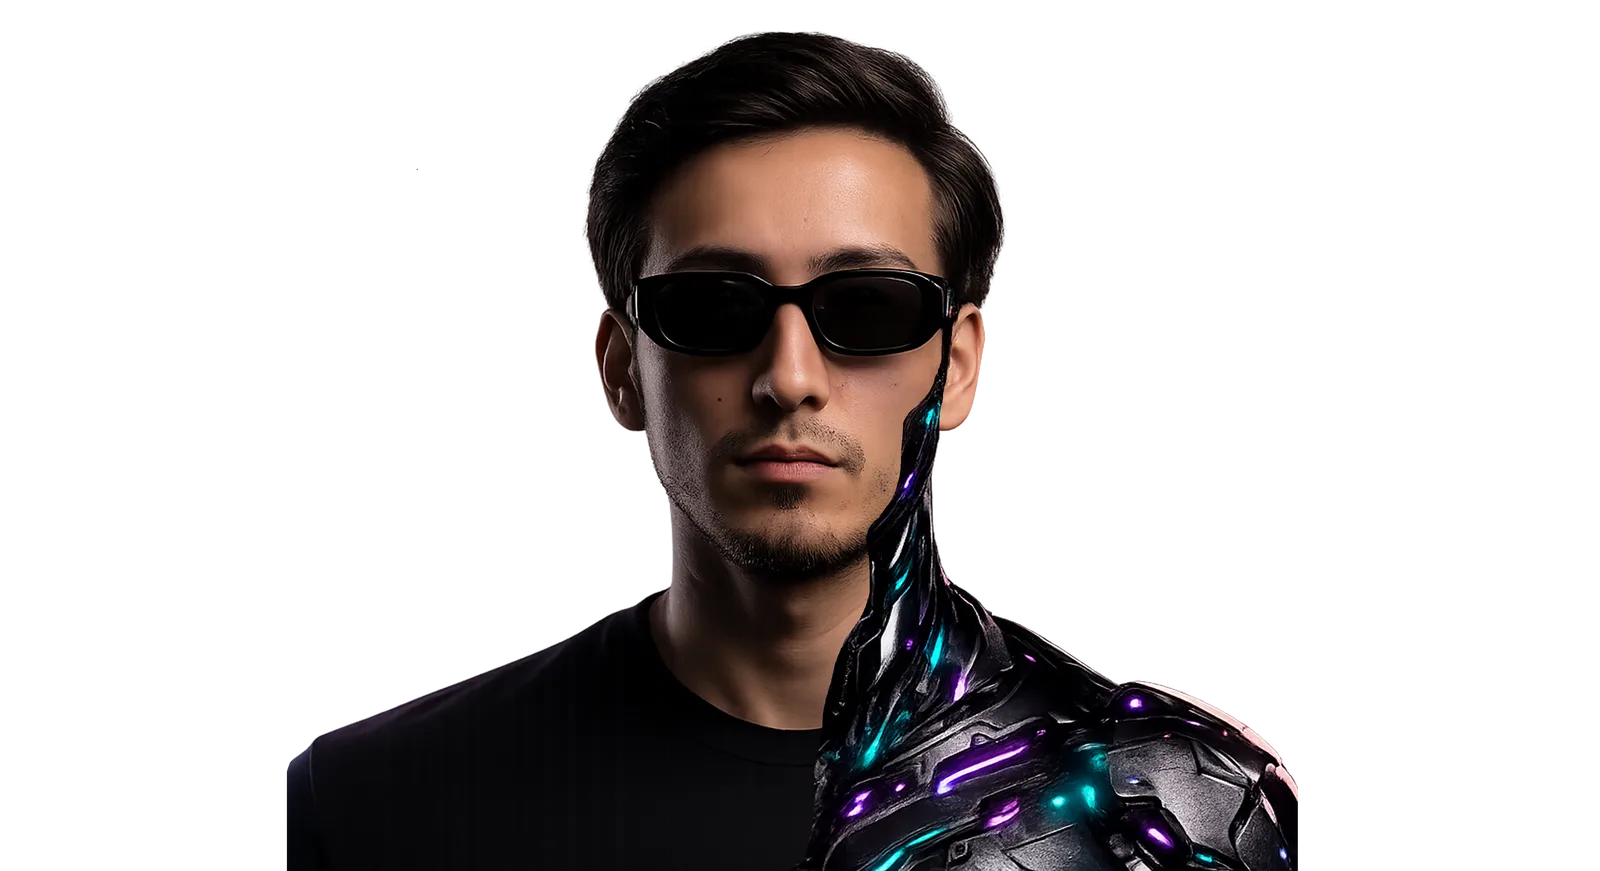
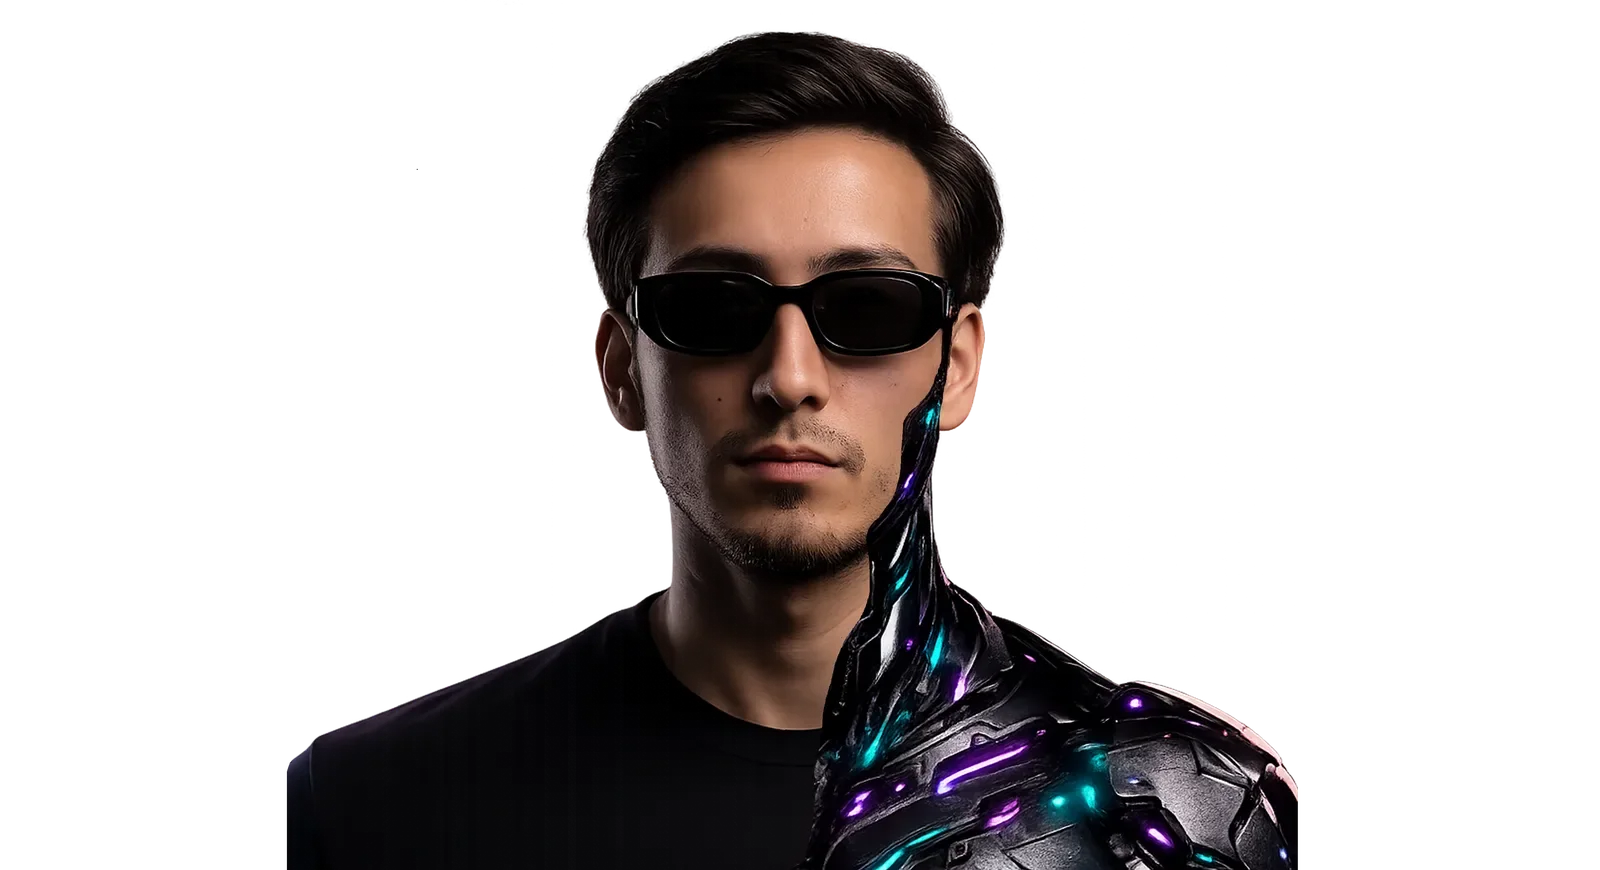
feat(app): add custom loading

diff --git a/web/index.html b/web/index.html
@@ -1,5 +1,6 @@
 <!DOCTYPE html>
 <html>
+
 <head>
   <!--
     If you are serving your web app in a path other than the root, change the
@@ -17,6 +18,7 @@
   <base href="$FLUTTER_BASE_HREF">
 
   <meta charset="UTF-8">
+  <meta name="viewport" content="width=device-width, initial-scale=1">
   <meta content="IE=Edge" http-equiv="X-UA-Compatible">
   <meta name="description" content="A new Flutter project.">
 
@@ -27,20 +29,52 @@
   <link rel="apple-touch-icon" href="icons/Icon-192.png">
 
   <!-- Favicon -->
-  <link rel="icon" type="image/png" href="favicon.png"/>
+  <link rel="icon" type="image/png" href="favicon.png" />
 
   <title>portfolio</title>
   <link rel="manifest" href="manifest.json">
-</head>
-<body>
-  <!--
-    You can customize the "flutter_bootstrap.js" script.
-    This is useful to provide a custom configuration to the Flutter loader
-    or to give the user feedback during the initialization process.
+  <style>
+    #startup-loader {
+      position: fixed;
+      inset: 0;
+      z-index: 9999;
+      box-sizing: border-box;
+      height: 100dvh;
+      display: flex;
+      align-items: center;
+      justify-content: center;
+      padding: clamp(16px, 4vmin, 48px);
+      background: white;
+    }
 
-    For more details:
-    * https://docs.flutter.dev/platform-integration/web/initialization
-  -->
+    #startup-loader img {
+      display: block;
+      width: 100%;
+      height: 100%;
+      object-fit: contain;
+    }
+
+    @media (max-width: 600px), (max-height: 600px) and (pointer: coarse) {
+      #startup-loader img {
+        width: min(55vmin, 220px);
+        max-width: 100%;
+        height: auto;
+        max-height: 100%;
+      }
+    }
+  </style>
+</head>
+
+<body>
+  <div id="startup-loader" role="status" aria-label="Cargando el portafolio">
+    <img src="assets/assets/animations/logo-loading.svg" alt="">
+  </div>
+  <script>
+    window.addEventListener('flutter-first-frame', () => {
+      document.getElementById('startup-loader').remove();
+    }, { once: true });
+  </script>
   <script src="flutter_bootstrap.js" async></script>
 </body>
+
 </html>

diff --git a/lib/pages/sections/presentation/widgets/photo_widget.dart b/lib/pages/sections/presentation/widgets/photo_widget.dart
@@ -25,10 +25,7 @@ class _PhotoWidgetState extends State<PhotoWidget> {
               ResponsiveFontSize.logarithmic(150, context.viewportSize),
               0,
             ),
-            shadowBlurRadius: ResponsiveFontSize.logarithmic(
-              150,
-              context.viewportSize,
-            ),
+            shadowBlurRadius: 100,
             child: Image.asset(MeEnum.casual.path, fit: .contain),
           ),
         ),

diff --git a/lib/design_system/constants/motion_constants.dart b/lib/design_system/constants/motion_constants.dart
@@ -3,5 +3,5 @@ abstract final class MotionConstants {
   static const fast = Duration(milliseconds: 250);
   static const medium = Duration(milliseconds: 300);
   static const slow = Duration(milliseconds: 500);
-  static const verySlow = Duration(seconds: 2);
+  static const verySlow = Duration(seconds: 1);
 }
